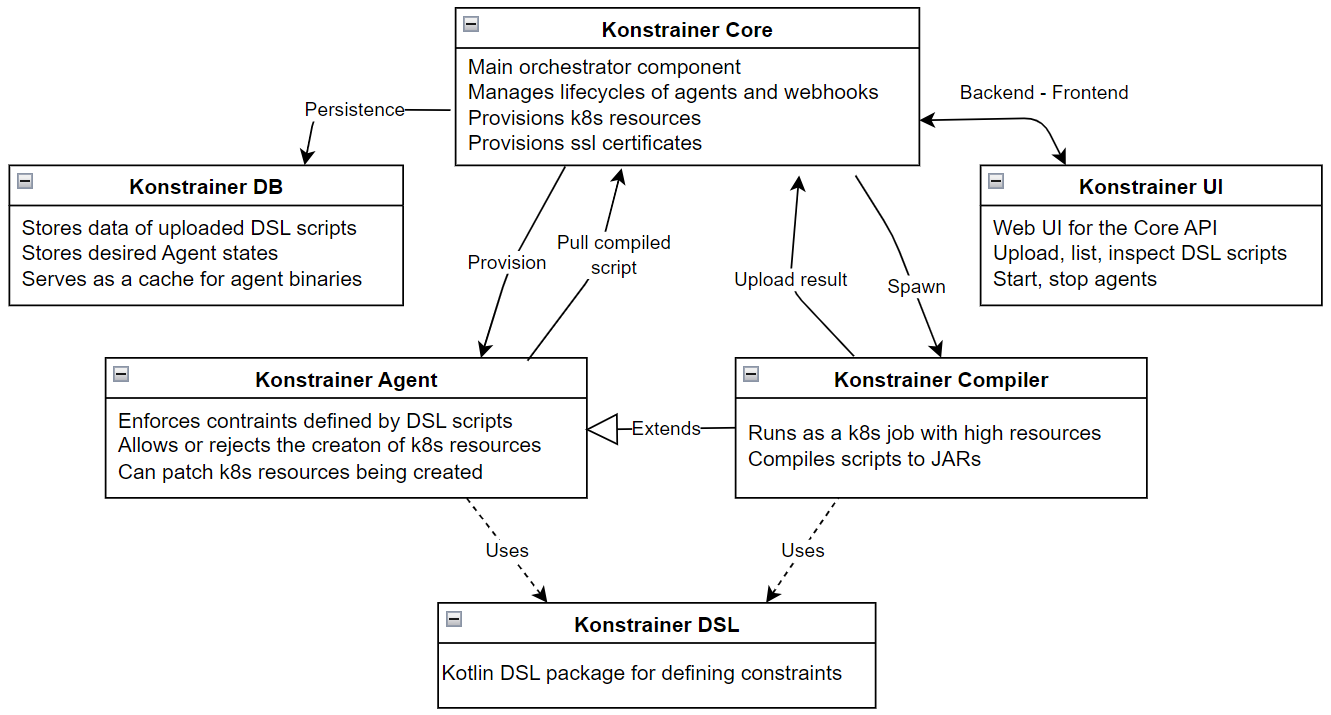
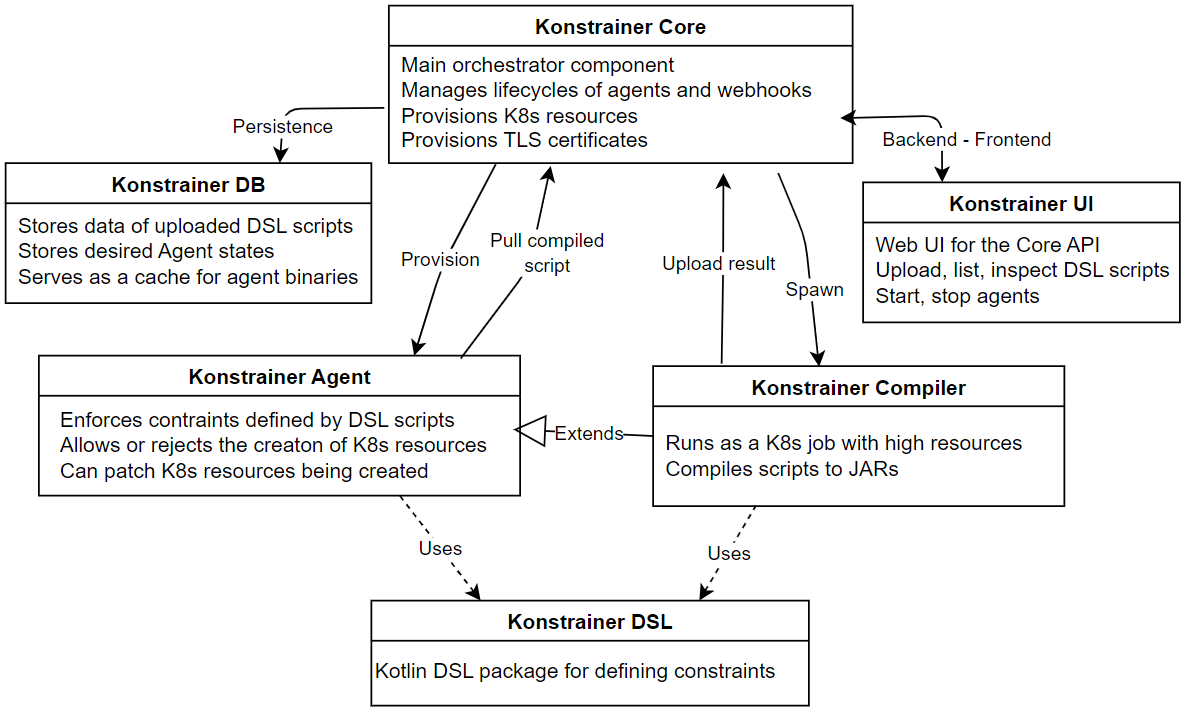
.

Changed region(s): [[0.0, 0.0, 0.9983, 1.0], [0.4056, 0.4017, 0.4368, 0.4635]]

diff --git a/doc/src/content_sallang/0_abstract/abstract.tex b/doc/src/content_sallang/0_abstract/abstract.tex
@@ -13,7 +13,7 @@
 
 Manapság az alkalmazásfejlesztés fő trendje a rendszer több komponensre bontása és ezeknek a komponenseknek konténerekbe csomagolása, valamint harmadik féltől származó megoldásokkal való integrálása. Az ilyen több komponensű elosztott alkalmazások tipikus üzemeltetési környezete a Kubernetes, amely rugalmas megoldást kínál ebben a témakörben felmerülő legtöbb problémára.
 
-Egy Kubernetesre írt alkalmazás megfelelő üzemeltetése nagy kihívás az elosztott rendszerek üzemeltetéséből eredő komplexitás miatt. Egy működőképes rendszer összeállítása nem mindig elegendő. Éppen ezért a megfelelő működésen felül lehetnek nem funkcionális követelmények is a rendszerrel szemben, például rendelkezésreállási vagy biztonsági követelmények. Az ilyen követelmények betartatása nem triviális.
+Egy Kubernetesre írt alkalmazás megfelelő üzemeltetése nagy kihívás az elosztott rendszerek üzemeltetéséből eredő komplexitás miatt. Egy működőképes rendszer összeállítása nem mindig elegendő. Éppen ezért a megfelelő működésen felül lehetnek nem funkcionális követelmények is a rendszerrel szemben, például rendelkezésre állási vagy biztonsági követelmények. Az ilyen követelmények betartatása nem triviális.
 
 Dolgozatom célja egy kényszerek leírását lehetővé tevő szakterület-specifikus nyelv megalkotása és egy kényszerek betartatását segítő keretrendszer kialakítása, amely keretrendszer jelentősen megkönnyíti a Kubernetes alapú rendszerekben nem funkcionális követelmények betartatását és ellenőrzését.
 

diff --git a/doc/src/content/75_implementation/arch.tex b/doc/src/content/75_implementation/arch.tex
@@ -4,8 +4,8 @@ My project is not just a language and a compiler for it, but rather a much large
 
 \begin{figure}[h]
     \centering
-    \includegraphics[width=130mm, keepaspectratio]{content/75_implementation/xarch.png}
-    \caption{Complex architecture plan}
+    \includegraphics[width=150mm, keepaspectratio]{content/75_implementation/xarch.png}
+    \caption{Architecture plan}
     \label{fig:comp_arch}
 \end{figure}
 
